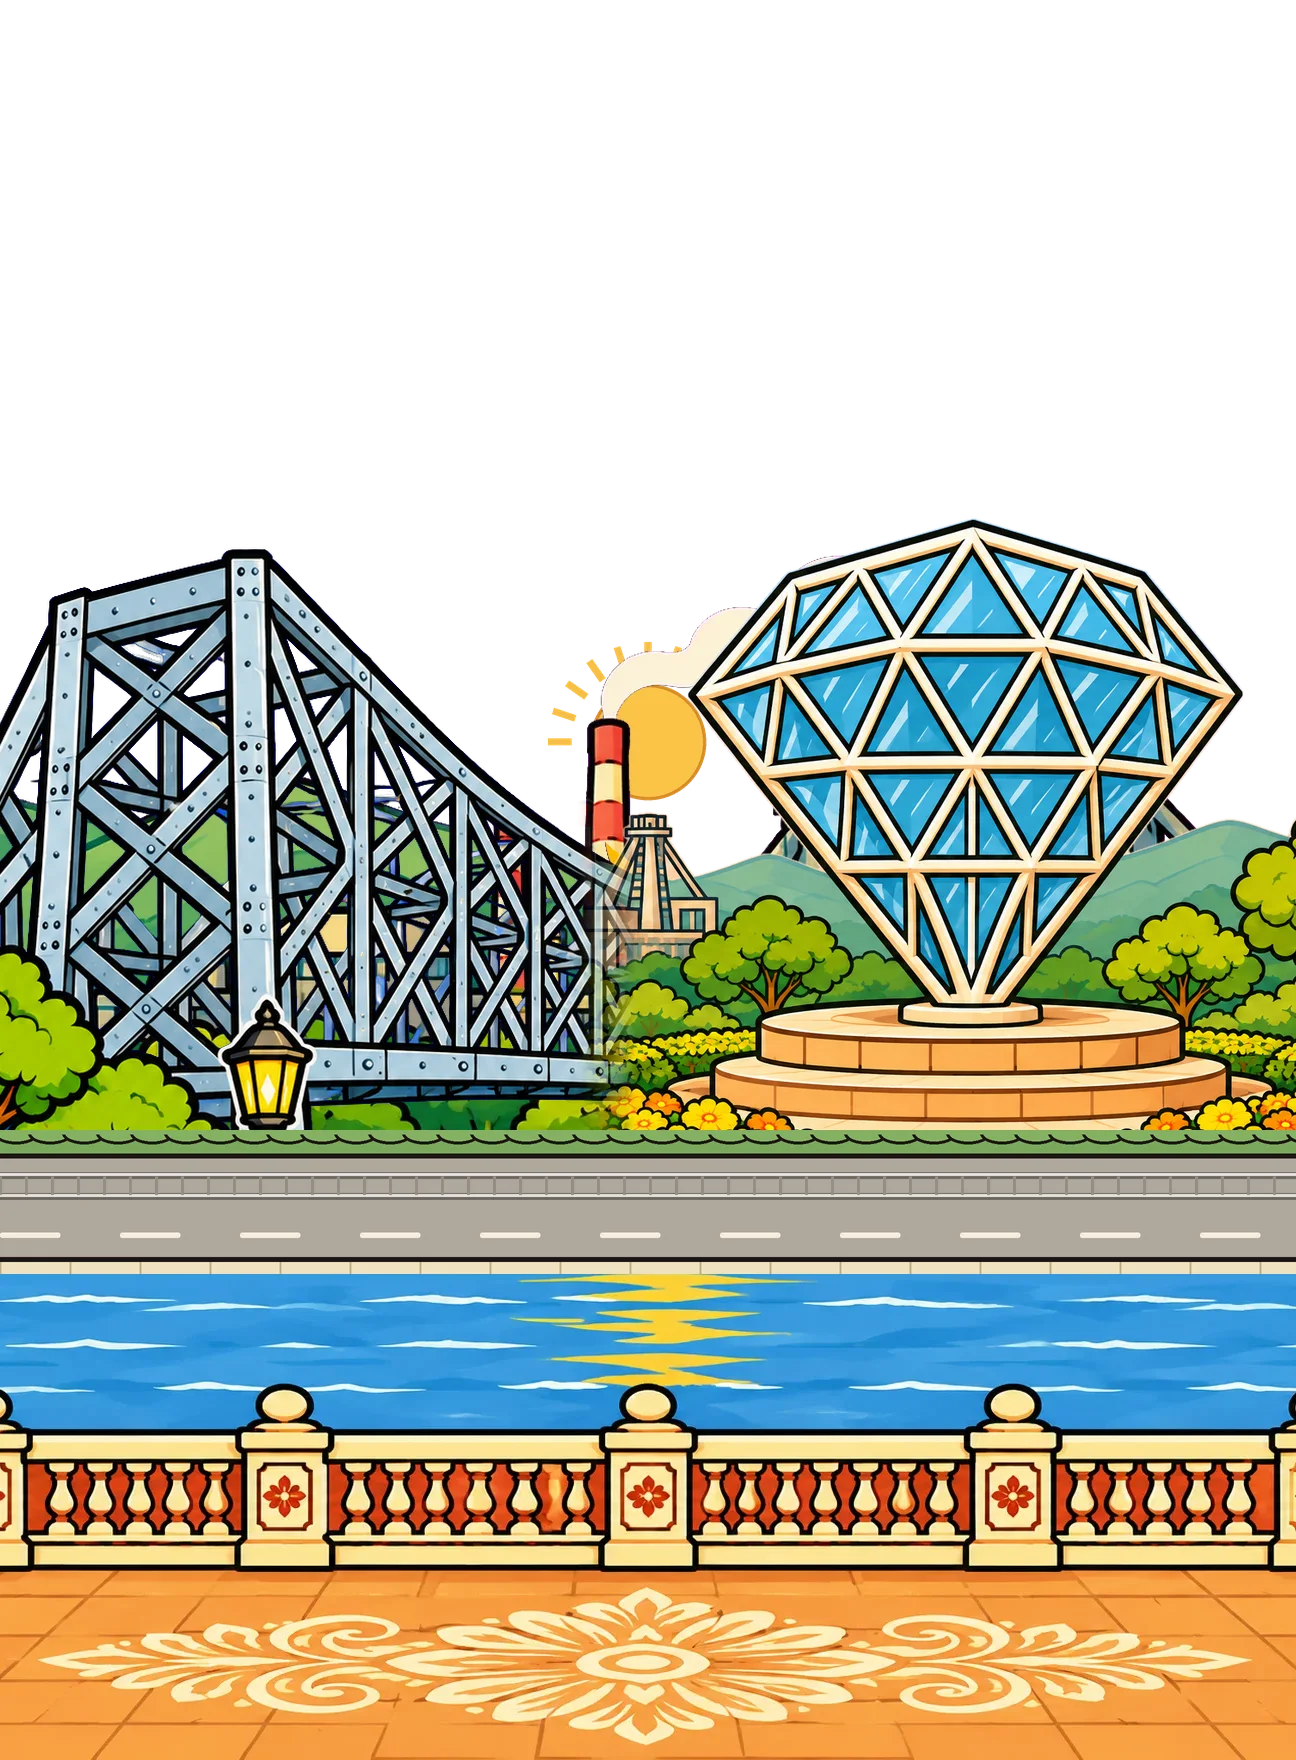
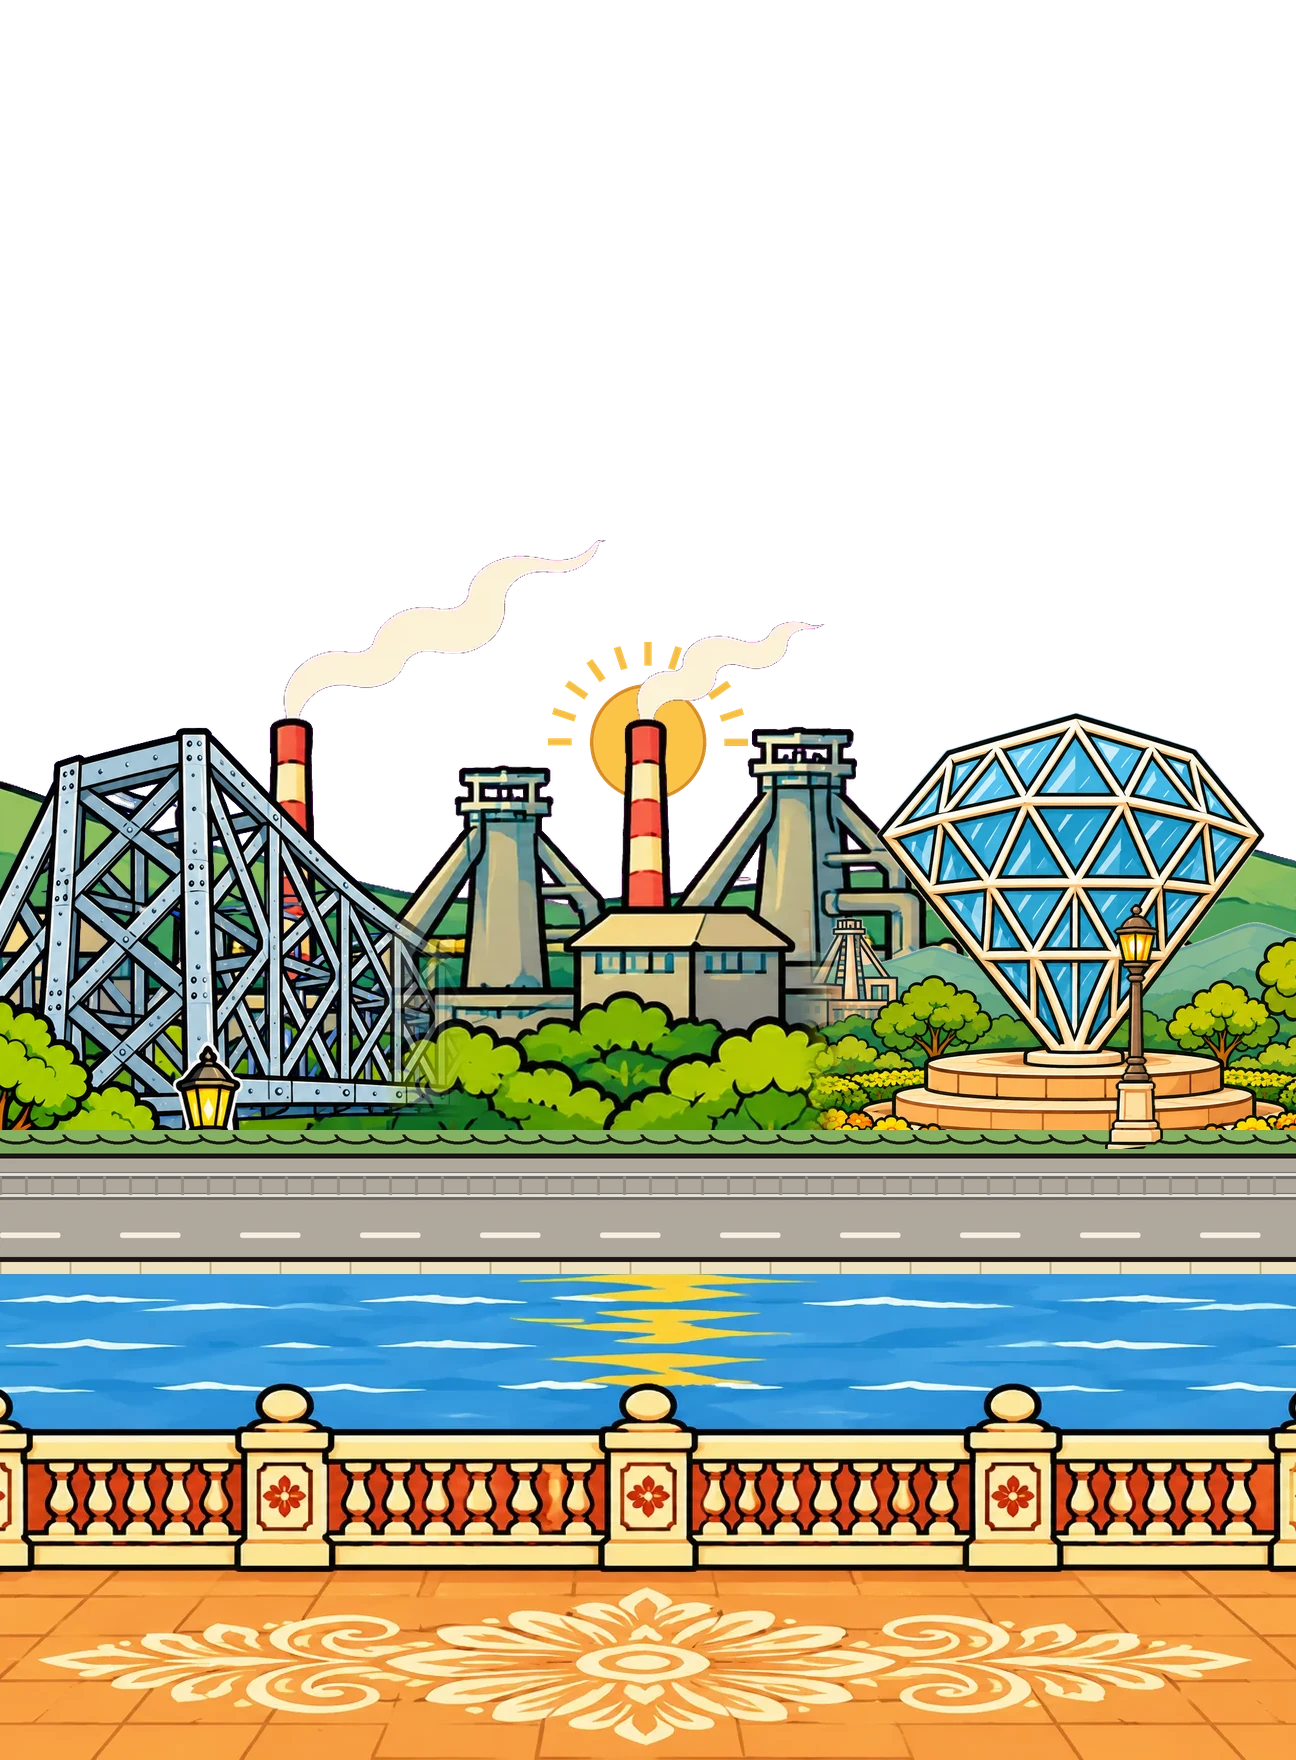
First page: smaller Howrah Bridge with the hills' trees over its foot (no blend seam), steel works between the couple on phones, smaller diamond, street lamps in sight

Changed region(s): [[0.0, 0.2812, 1.0, 0.6562]]

diff --git a/scripts/compose-hero.py b/scripts/compose-hero.py
@@ -1,7 +1,7 @@
 # Builds the first-page backdrop as one picture: hills, Howrah Bridge, the Tata Park diamond,
 # a far-bank road with tram rails, then the river, the railing and the floor.
 # python3 scripts/compose-hero.py   ->  art/raw/hero-wide.png, art/raw/hero-tall.png, plus the road lines in art/hero-lines.json
-# Sources: art/raw/city-kolkata.png (keyed), art/raw/diamond-park.png (full painting),
+# Sources: art/raw/city-kolkata.png (keyed), art/raw/diamond-park.png (full painting, also the street lamp),
 #          src/art/jamshedpur-hills.webp, src/art/hero-ground.webp
 import json
 import numpy as np
@@ -64,6 +64,49 @@ def sky_out(path):
     alpha = nd.gaussian_filter(land.astype(np.float32), 0.7)
     out = np.dstack([a, np.clip(alpha, 0, 1) * 255]).astype(np.uint8)
     return Image.fromarray(out, 'RGBA')
+
+
+def lamp():
+    """the street lamp from the Tata Park painting, cut along its own black outline"""
+    d = np.asarray(Image.open('art/raw/diamond-park.png').convert('RGB')).astype(np.int32)
+    x0, y0, x1, y1 = 60, 420, 210, 950
+    c = d[y0:y1, x0:x1]
+    ink = nd.binary_dilation(c.mean(2) < 75, iterations=1)
+    lab, _ = nd.label(~ink)
+    ids = set(np.unique(lab[:, 126 - x0 - 6:126 - x0 + 7])) - {0}
+    ids -= set(np.unique(lab[0])) | set(np.unique(lab[:, 0])) | set(np.unique(lab[:, -1]))
+    keep = np.zeros(lab.shape, bool)
+    for i in ids:
+        m = lab == i
+        xs = np.nonzero(m)[1]
+        if xs.max() - xs.min() < 95 and m.sum() > 20:
+            keep |= m
+    m = nd.binary_fill_holes(keep | (nd.binary_dilation(keep, iterations=6) & ink))
+    ys, xs = np.nonzero(m)
+    out = np.dstack([c, nd.gaussian_filter(m.astype(np.float32), 0.6) * 255]).astype(np.uint8)
+    return Image.fromarray(out, 'RGBA').crop((xs.min(), ys.min(), xs.max() + 1, ys.max() - 8))
+
+
+def tree_band(hl, seed_row):
+    """only the row of round trees along the bottom of the hills layer (each tree is closed by its outline)"""
+    a = np.asarray(hl).astype(np.float32)
+    ink = (a[..., :3].mean(2) < 70) & (a[..., 3] > 0)
+    lab, _ = nd.label(~ink & (a[..., 3] > 0))
+    ids = set(np.unique(lab[seed_row])) - {0}
+    m = np.isin(lab, list(ids))
+    m = nd.binary_fill_holes(m | (nd.binary_dilation(m, iterations=5) & ink))
+    out = a.copy()
+    out[..., 3] *= nd.gaussian_filter(m.astype(np.float32), 0.6)
+    return Image.fromarray(out.astype(np.uint8), 'RGBA')
+
+
+def hfade(im, x_end, px):
+    """keep the picture up to x_end, melting away over px to its right"""
+    a = arr(im)
+    w = a.shape[1]
+    x = np.arange(w)
+    a[..., 3] *= np.clip((x_end - x) / px, 0, 1)[None, :]
+    return Image.fromarray(a.astype(np.uint8), 'RGBA')
 
 
 def ndimage_soft(mask):
@@ -151,17 +194,24 @@ def build(kind):
         hs = 1.0
         hy = yroad - hills.height * hs + 40
         base.alpha_composite(sun(60), (int(W * 0.58), int(yroad - hills.height * 0.7)))
+        hl = Image.new('RGBA', (W, H), (0, 0, 0, 0))
         left = hills.crop((0, 0, W - hills.width + 60, hills.height)).transpose(Image.FLIP_LEFT_RIGHT)
-        paste(base, left, 0, hy, 1)
-        paste(base, fade(hills, 'l', 60), W - hills.width, hy, 1)
-        # Kolkata: the bridge tower stands between the words and the couple, its span runs off to the left
-        bs = 0.86
-        paste(base, fade(br, 'l', 60), W * 0.40 - br.width * bs, yroad - br.height * bs + 22, bs, flip=True)
+        paste(hl, left, 0, hy, 1)
+        paste(hl, fade(hills, 'l', 60), W - hills.width, hy, 1)
+        base.alpha_composite(hl)
+        # Kolkata: a smaller bridge tower stands between the words and the couple, its span runs off to the left
+        bs = 0.68
+        right = W * 0.37
+        paste(base, br, right - br.width * bs, yroad - br.height * bs + 22, bs, flip=True)
+        # the bridge's own bushes end where its painting ended: the row of trees from the hills grows back
+        # over its foot, so the cut never shows
+        base.alpha_composite(hfade(tree_band(hl, yroad + 20), right + 260, 160))
         # Jamshedpur: the diamond on the right
         crop = dia.crop((int(dia.width * 0.2), 0, int(dia.width * 0.86), int(dia.height * 0.84)))
         crop = fade(crop, 'l', 70)
         ds = 0.64
         paste(base, crop, W - crop.width * ds + 20, yroad - crop.height * ds + 24, ds)
+        lamps = [(0.405, 0.5), (0.52, 0.5)]
     else:
         W = 1296
         gs = 1.0
@@ -175,17 +225,33 @@ def build(kind):
         base = Image.new('RGBA', (W, H), (0, 0, 0, 0))
         yroad = land
         hs = 1.05
-        hc = hills.crop((int(hills.width * 0.36), 0, int(hills.width * 0.36) + int(W / hs), hills.height))
+        # the steel works in the middle, between the couple: hills and mirrored hills side by side
+        strip = Image.new('RGBA', (hills.width * 2, hills.height), (0, 0, 0, 0))
+        strip.alpha_composite(hills, (0, 0))
+        strip.alpha_composite(fade(hills.transpose(Image.FLIP_LEFT_RIGHT), 'l', 60), (hills.width - 60, 0))
+        x0 = int(hills.width * 0.783 - W * 0.5 / hs)  # the works' middle chimney lands in the middle
+        hc = strip.crop((x0, 0, x0 + int(W / hs), hills.height))
         base.alpha_composite(sun(58), (int(W * 0.5 - 116), int(yroad - hills.height * hs * 0.8)))
-        paste(base, hc, 0, yroad - hills.height * hs + 40, hs)
-        bs = 1.02
-        paste(base, br, -70, yroad - br.height * bs + 26, bs)
+        hl = Image.new('RGBA', (W, H), (0, 0, 0, 0))
+        paste(hl, hc, 0, yroad - hills.height * hs + 40, hs)
+        base.alpha_composite(hl)
+        # the tower at the left edge, beside the groom; its span is cut short behind him
+        bs = 0.72
+        span = fade(br.crop((0, 0, int(br.width * 0.62), br.height)), 'r', 120)
+        paste(base, span, -30, yroad - br.height * bs + 26, bs)
+        base.alpha_composite(hfade(tree_band(hl, yroad + 20), span.width * bs + 60, 140))
         crop = dia.crop((int(dia.width * 0.2), 0, int(dia.width * 0.86), int(dia.height * 0.84)))
         crop = fade(crop, 'l', 70)
-        ds = 0.86
-        paste(base, crop, W - crop.width * ds + 150, yroad - crop.height * ds + 30, ds)
+        ds = 0.6
+        paste(base, crop, W - crop.width * ds + 110, yroad - crop.height * ds + 30, ds)
+        lamps = [(0.875, 0.56)]  # the bridge brings its own lamp on the left
     rd, lines = road(W, R)
     base.alpha_composite(rd, (0, yroad))
+    # street lamps on the grass verge, where the couple and the words leave them in sight
+    lp = lamp()
+    for fx, sc in lamps:
+        l = lp.resize((round(lp.width * sc), round(lp.height * sc)), Image.LANCZOS)
+        base.alpha_composite(l, (round(W * fx - l.width / 2), round(yroad + R * 0.13 - l.height)))
     g = gb.resize((W, gh), Image.LANCZOS) if gb.width != W else gb
     base.alpha_composite(g, (0, yroad + R - 6))
     base = base.crop((0, 0, W, min(H, yroad + R - 6 + gh)))
